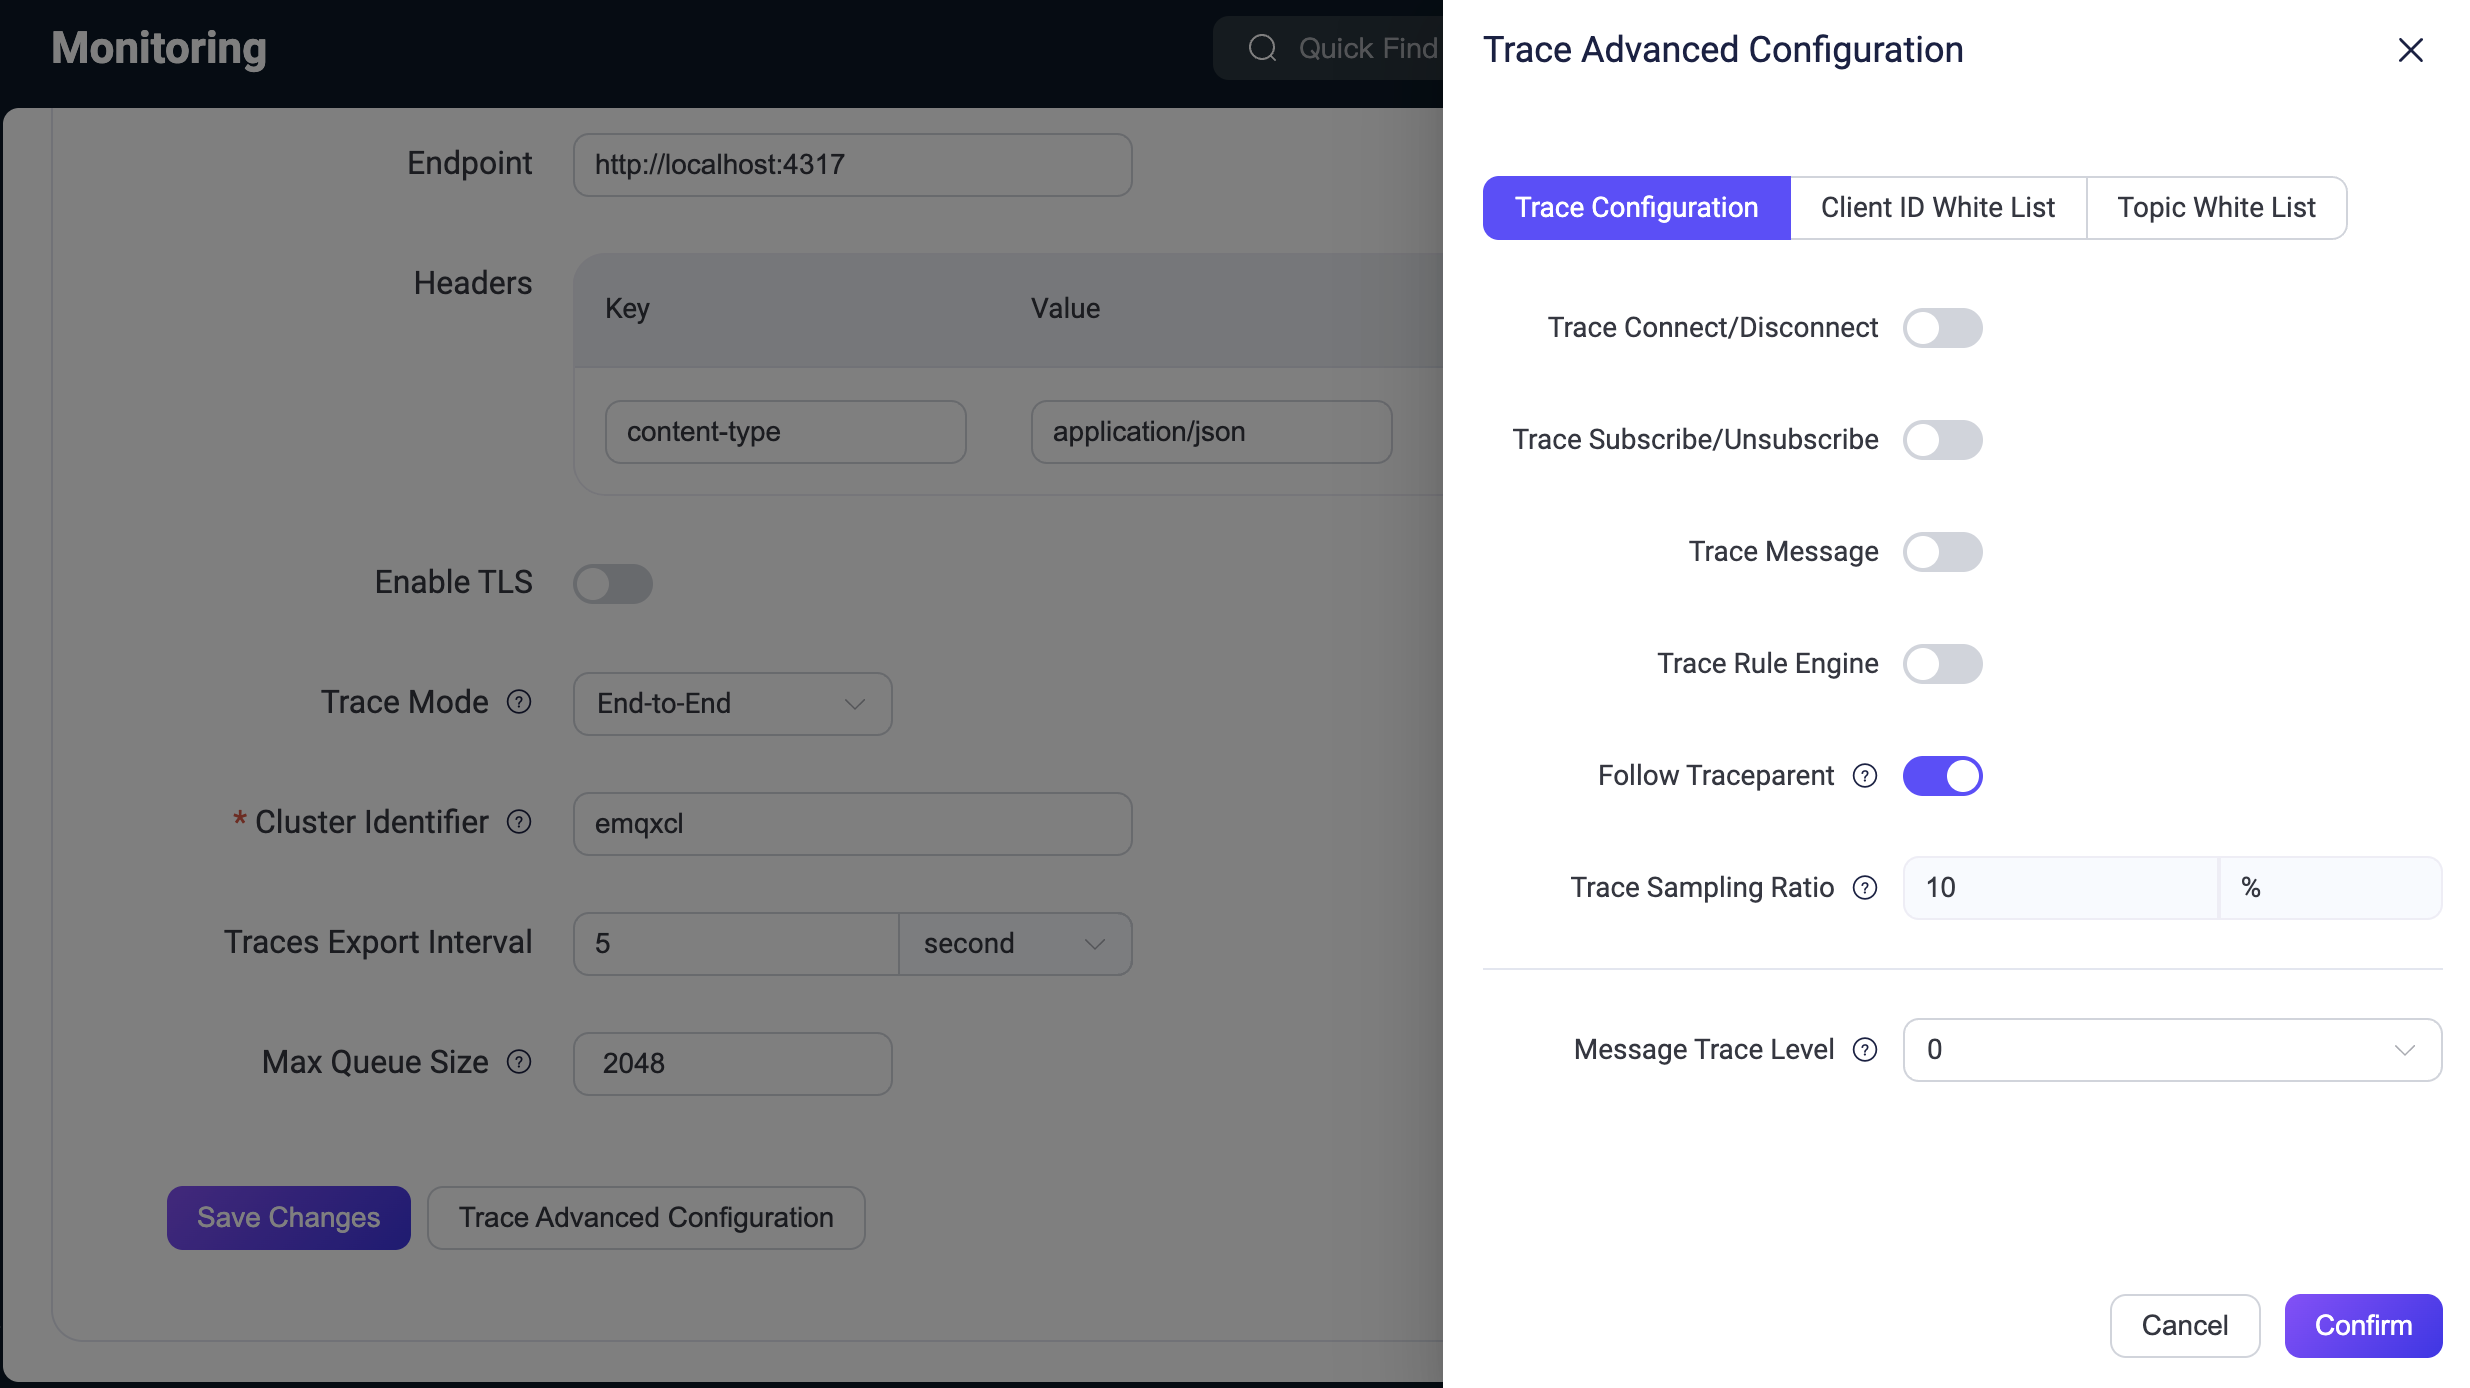
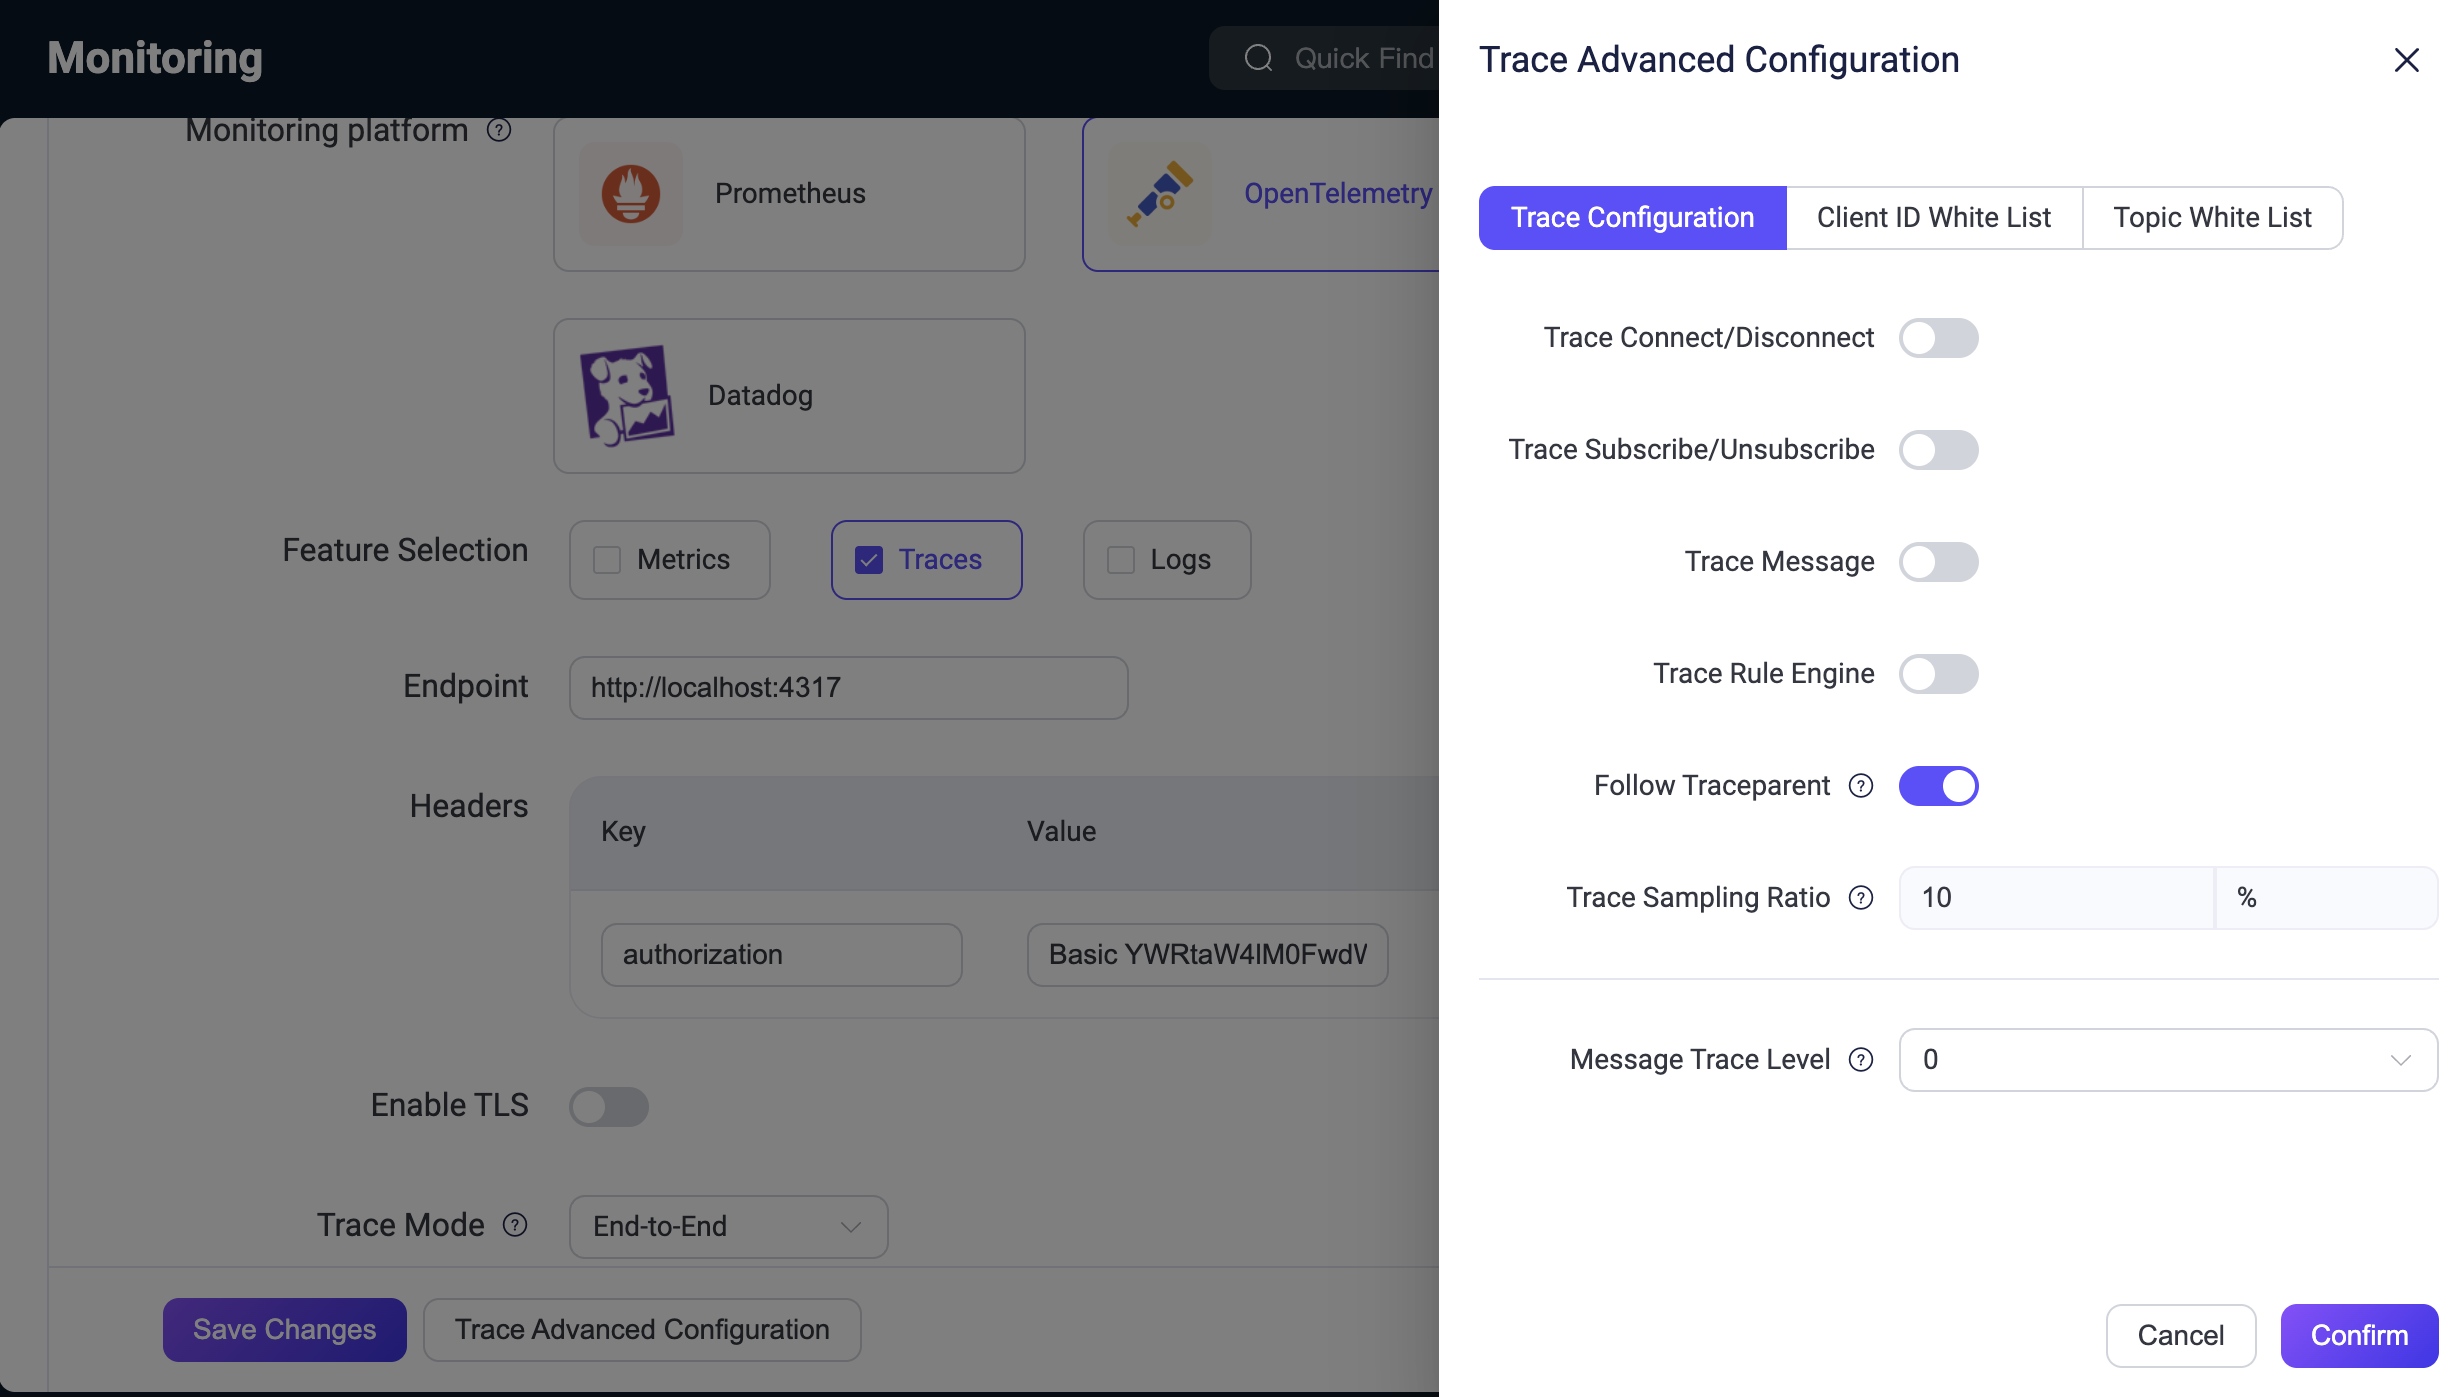
Add more info

diff --git a/zh_CN/observability/opentelemetry/e2e-traces.md b/zh_CN/observability/opentelemetry/e2e-traces.md
@@ -29,16 +29,35 @@
 ### 通过 Dashboard 启用和配置端对端追踪
 
 1. 点击 Dashboard 左侧菜单中的**管理** -> **监控**。
+
 2. 选择页面中的**监控集成**选项卡。
+
 3. 设置以下配置项：
    - **监控平台**：选择 `OpenTelemetry`。
+   
    - **功能选择**：选择 `Traces`。
+   
    - **服务地址**：设置追踪数据导出地址，默认为 `http://localhost:4317`。
-   - **请求头**：为追踪数据的导出请求添加自定义 HTTP 请求头。当 OpenTelemetry Collector 需要身份认证或特定的请求头（例如 API 密钥或令牌）时，可以使用此功能。每个请求头应以键值对的形式配置。该选项增强了对需要基于 HTTP 认证的 Collector 的兼容性。
+   
+   - **请求头**：为追踪数据的导出请求添加自定义 HTTP 请求头。当 OpenTelemetry Collector 需要身份认证或特定请求头（如 API 密钥或令牌）时，可使用此功能。每个请求头应以键值对的形式配置。
+   
+     如果 OpenTelemetry Collector 配置了基本认证（Basic Authentication），则需添加 `authorization` 请求头，其值格式为：`Basic <base64编码的用户名:密码>`。例如：
+   
+     ```
+     键：authorization
+     值：Basic dXNlcjpwYXNzd29yZA==
+     ```
+   
+     该选项增强了对基于 HTTP 认证 Collector 的兼容性。
+   
    - **启用 TLS**：根据需要启用 TLS 加密通信，通常用于生产环境中的安全要求。
+   
    - **追踪模式**：选择 `End-to-End` 以启用端到端追踪功能。
+   
    - **集群标识符**：添加到跨度属性中的属性值，帮助识别数据是来自哪个 EMQX 集群。属性键将是 `cluster.id`。通常，设置一个简单且易于识别的名称或使用集群名称来标识不同的 EMQX 集群。默认为 `emqxcl`。
+   
    - **追踪导出间隔**：设置追踪数据导出的时间间隔，默认为 `5` 秒。
+   
    - **最大队列长度**：设置追踪数据队列的最大长度，默认为 `2048` 条。
    
 4. 点击**追踪高级配置**，根据需要进行高级设置。参考[通过配置文件配置端对端追踪](#通过配置文件配置端对端追踪)中的配置示例。
@@ -49,6 +68,7 @@
    - **主题白名单**：设置一个主题白名单，只有匹配的主题才能被追踪，类似于客户端白名单的作用，帮助控制追踪的范围。
 
 5. 点击**确认**保存配置并关闭窗口。
+
 6. 点击**保存更改**按钮以保存配置。
 
 <img src="./assets/e2e-dashboard-conf-zh.png" alt="Otel-E2E-Trace-dashboard-page" style="zoom:67%;" />

diff --git a/en_US/observability/opentelemetry/e2e-traces.md b/en_US/observability/opentelemetry/e2e-traces.md
@@ -23,16 +23,35 @@ This section guides you through enabling OpenTelemetry-based end-to-end tracing 
 ### Configure End-to-End Tracing via Dashboard
 
 1. Click **Management** -> **Monitoring** from the Dashboard menu on the left.
+
 2. Select the **Integration** tab on the Monitoring page.
+
 3. Configure the following settings:
    - **Monitoring platform**: Select `OpenTelemetry`.
+   
    - **Feature Selection**: Select `Traces`.
+   
    - **Endpoint**: Set the trace data export address, which defaults to `http://localhost:4317`.
-   - **Headers**: Add custom HTTP headers to the trace export request. This is useful when the OpenTelemetry collector requires authentication or other custom headers, such as API keys or tokens. Each header should be provided as a key-value pair. This option enhances compatibility with collectors that enforce HTTP-based authentication.
+   
+   - **Headers**: Add custom HTTP headers to the trace export request. This is useful when the OpenTelemetry collector requires authentication or other custom headers, such as API keys or tokens. Each header should be provided as a key-value pair. 
+   
+     If the OpenTelemetry Collector uses Basic Authentication, you need to add an `authorization` header with the value in the format: `Basic <base64-encoded username:password>`. For example:
+   
+     ```
+     Key: authorization
+     Value: Basic dXNlcjpwYXNzd29yZA==
+     ```
+   
+     This option enhances compatibility with collectors that enforce HTTP-based authentication.
+   
    - **Enable TLS**: Enable TLS encryption for secure communication as needed, typically for security requirements in production environments.
+   
    - **Trace Mode**: Select `End-to-End` to enable end-to-end tracing functionality.
+   
    - **Cluster Identifier**: Add a property value to the span attributes to help identify which EMQX cluster the data comes from. The property key will be `cluster.id`. Typically, set a simple and easily identifiable name or use the cluster name to differentiate between EMQX clusters. The default is `emqxcl`.
+   
    - **Traces Export Interval**: Set the time interval for exporting trace data, with a default of `5` seconds.
+   
    - **Max Queue Size**: Set the maximum size of the trace data queue. The default is `2048` entries.
    
 4. Click **Trace Advanced Configuration** to configure advanced settings if necessary.
